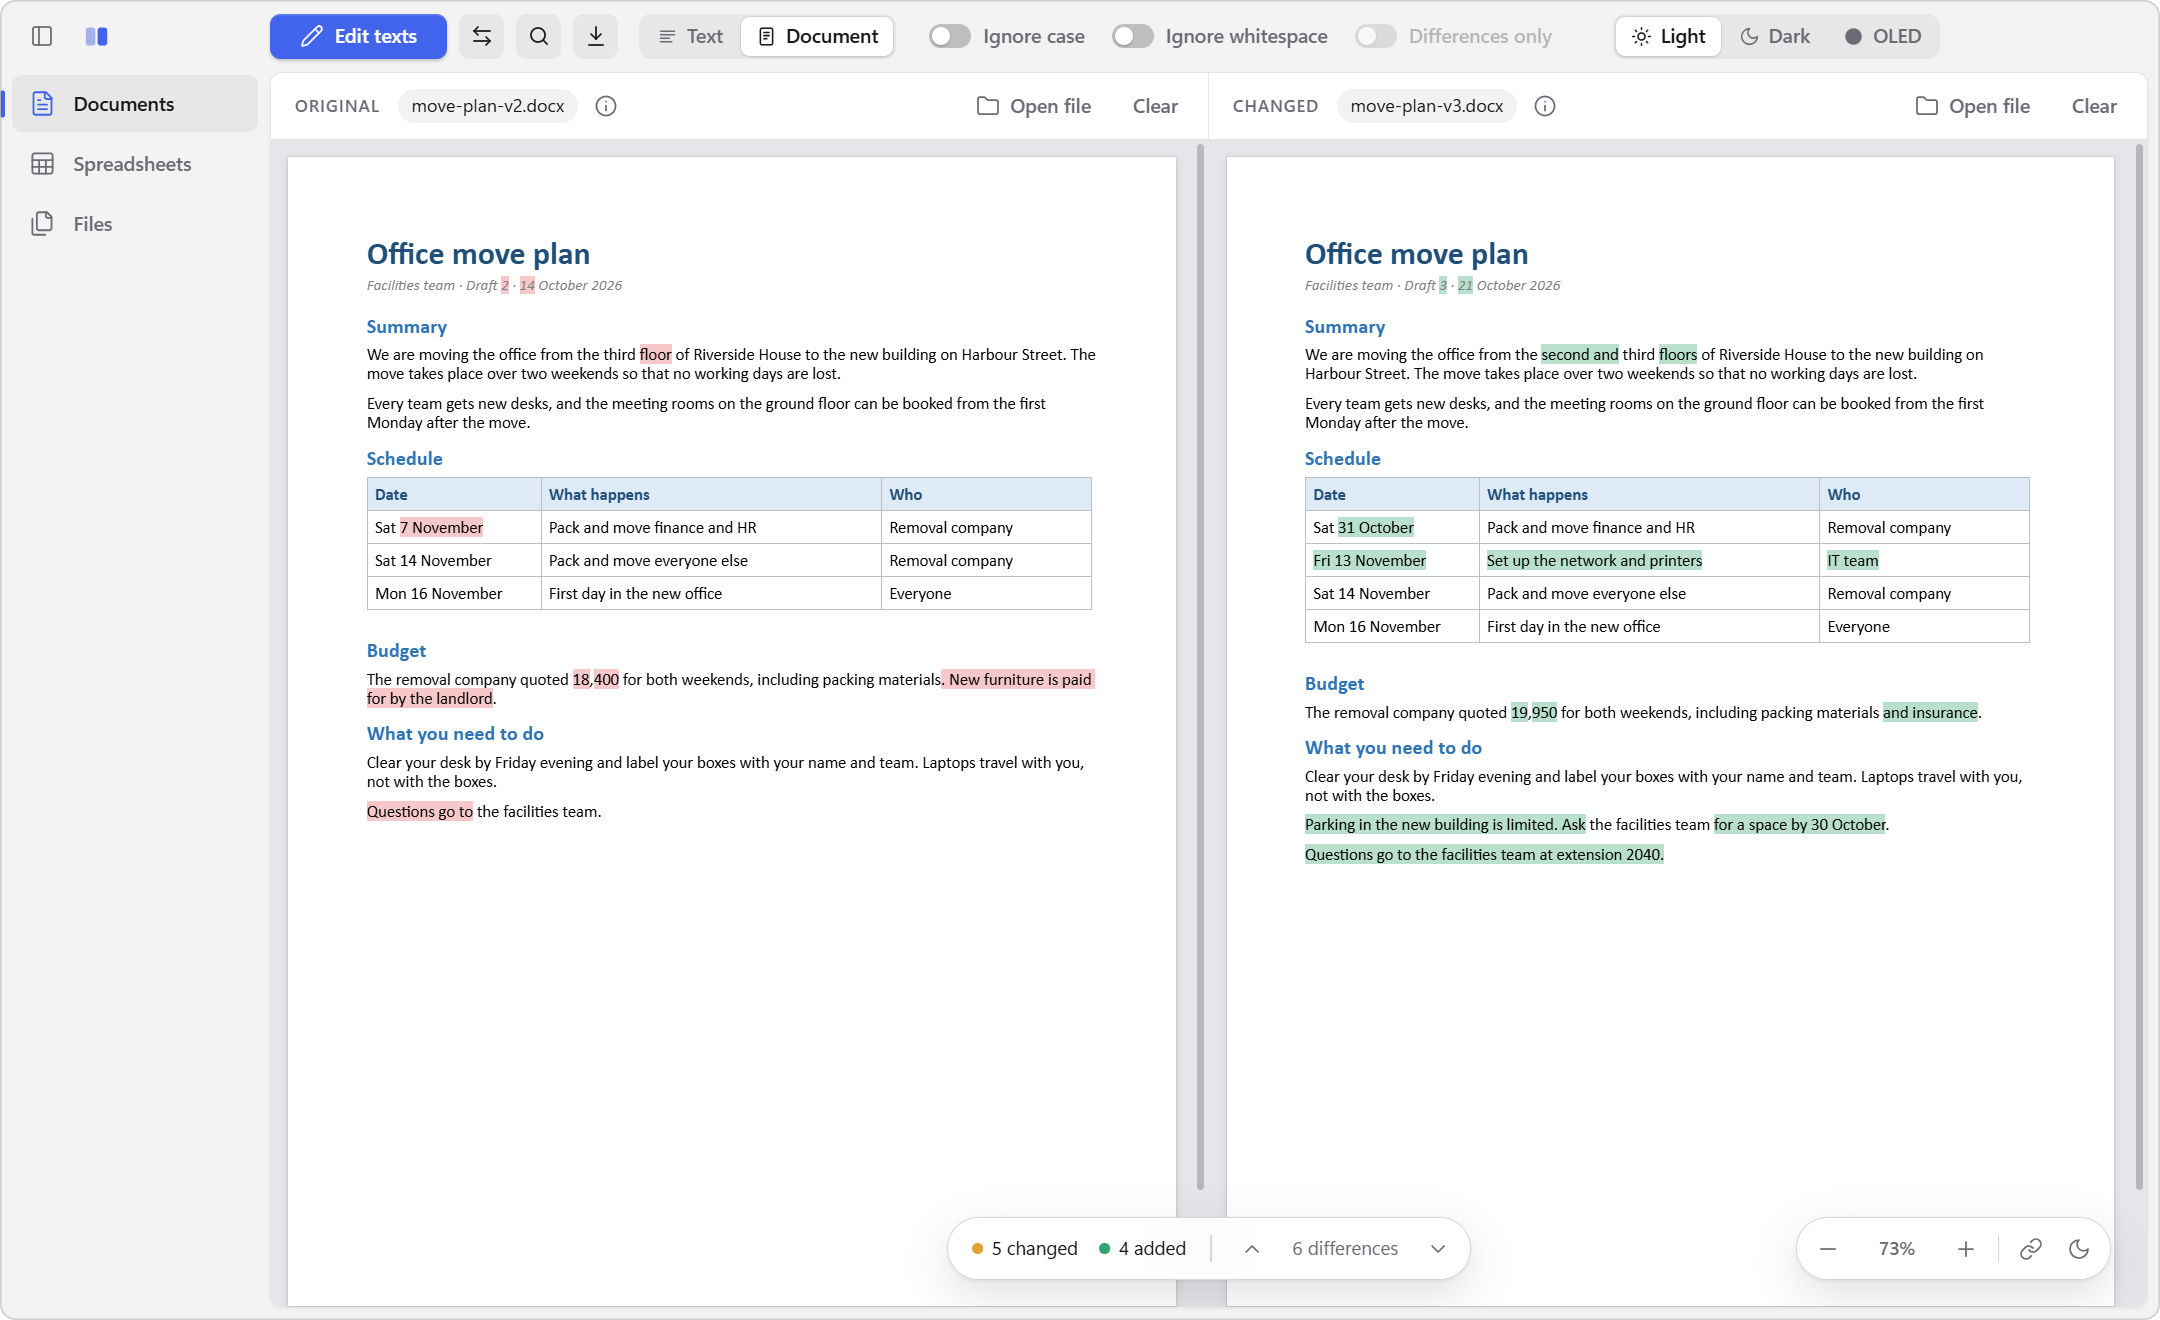
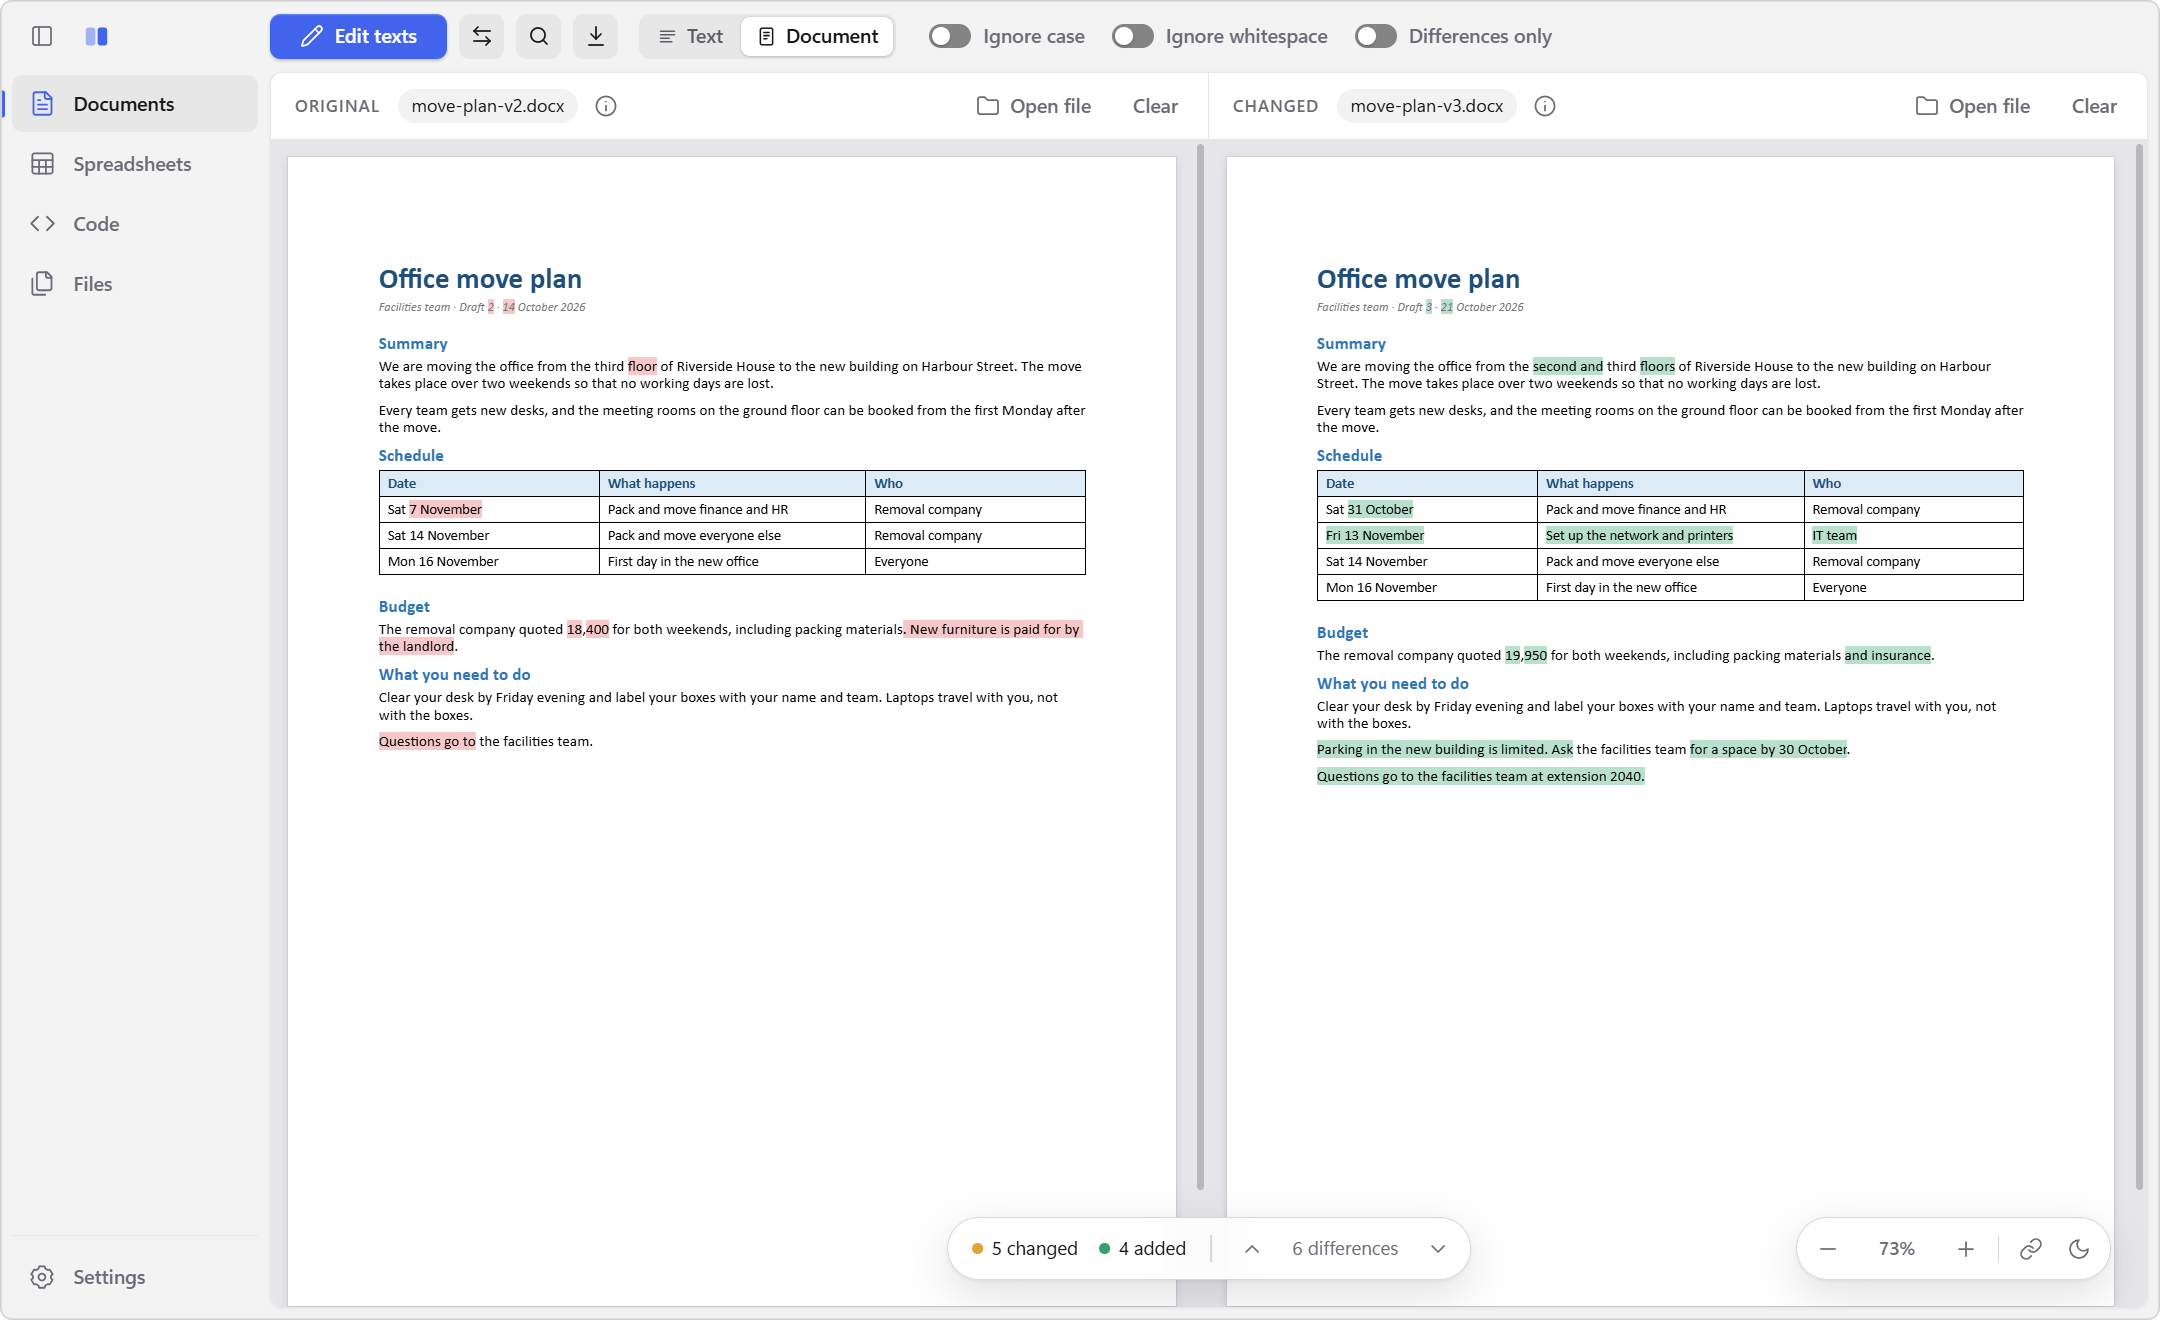
Release 1.5.0: Settings, a System theme and clearer file errors
- Version 1.5.0, with release notes in docs/releases/v1.5.0.md
- Retake every screenshot in the README and the user guide: the theme
  buttons have left the top bar for Settings, which now shows at the
  bottom of the sidebar, and the older shots had no Code workspace
- README: themes can follow Windows, and Settings can check for updates
- Guide: list file-error.js, diff-worker.js, diff-client.js and
  theme.js in the project layout, note the manual update check under
  how updating works, and use v1.5.0 in the release steps

diff --git a/docs/guide.md b/docs/guide.md
@@ -289,7 +289,7 @@ The code is colored with [highlight.js](https://highlightjs.org/) (`src/highligh
 
 ## Updating itself
 
-`src/updater.js` asks GitHub for the latest release ([the releases API](https://docs.github.com/en/rest/releases/releases#get-the-latest-release)) a few seconds after starting and every six hours. Only plain versions count, so drafts and pre-releases are never offered. `src/update.js` holds the parts that don't need Electron, so they can be tested: comparing versions, picking the right file, and the swap script.
+`src/updater.js` asks GitHub for the latest release ([the releases API](https://docs.github.com/en/rest/releases/releases#get-the-latest-release)) a few seconds after starting, every six hours, and when you click **Check for updates** in Settings. Checks that overlap share one request, and a check that fails keeps any update already found. Only plain versions count, so drafts and pre-releases are never offered. `src/update.js` holds the parts that don't need Electron, so they can be tested: comparing versions, picking the right file, and the swap script.
 
 How the update is put in place depends on how Compare runs:
 
@@ -319,11 +319,14 @@ Settings are stored in two places in Electron's user data folder under `%APPDATA
 | `src/code-languages.js` | Tells the language of a source file from its name |
 | `src/sheet-look.js` | Reads the formatting of spreadsheets |
 | `src/table-text.js` | Turns spreadsheets into delimited text and back |
+| `src/file-error.js` | Plain words for the errors Windows gives when a file can't be read or saved |
 | `src/hash-file.js` | Works out checksums |
 | `src/updater.js` | Checks for updates, downloads and applies them |
 | `src/update.js` | Versions, release files and the swap script for updates |
 | `src/renderer/app.js` | The page: workspaces, top bar, keyboard, find, export |
 | `src/renderer/diff-engine.js` | Compares texts line by line and word by word |
+| `src/renderer/diff-worker.js` | Runs comparisons in the background, away from the interface |
+| `src/renderer/diff-client.js` | Hands each workspace's comparisons to its own worker |
 | `src/renderer/table-diff.js` | Compares spreadsheets sheet by sheet |
 | `src/renderer/code-diff.js` | Compares code as git does, in hunks; writes code patches |
 | `src/renderer/code-html.js` | Turns colored code into lines, with the changed words marked |
@@ -334,6 +337,7 @@ Settings are stored in two places in Electron's user data folder under `%APPDATA
 | `src/renderer/doc-view.js` | The Document view |
 | `src/renderer/sheet-view.js` | The Sheet view |
 | `src/renderer/table-view.js` | The Table view |
+| `src/renderer/theme.js` | Themes, including System, and the sidebar's state before the first paint |
 | `src/renderer/report.js` | HTML reports, text patch files and CSV lists of changes |
 | `build/installer.nsh` | Adds *Send to → Compare* when installing |
 | `test/` | Tests, run with Node's built-in test runner |
@@ -349,11 +353,11 @@ npm test                 # run the tests
 npm run dist:installer   # build the installer and portable exe into dist/
 ```
 
-To publish a release, set `version` in `package.json` and `package-lock.json`, write the release notes in `docs/releases/v1.4.0.md` (named after the tag), commit, then push a matching tag:
+To publish a release, set `version` in `package.json` and `package-lock.json`, write the release notes in `docs/releases/v1.5.0.md` (named after the tag), commit, then push a matching tag:
 
 ```
-git tag v1.4.0
-git push origin v1.4.0
+git tag v1.5.0
+git push origin v1.5.0
 ```
 
 GitHub Actions runs the tests, builds the installer and the portable exe, and publishes them as a release with those notes. Without a notes file, the release lists the merged pull requests instead. The tests also run on every push to `main` and on every pull request.

diff --git a/docs/releases/v1.5.0.md b/docs/releases/v1.5.0.md
@@ -1,0 +1,36 @@
+## What's new
+
+### Settings
+
+- A new **Settings** button at the bottom left of the sidebar holds the theme, **Dark pages**, your version of Compare and a **Check for updates** button.
+- Settings tells you whether you're up to date, a new version is available, or the check couldn't finish. You can download and apply an update from there too.
+- Settings is still in reach with the sidebar collapsed and at high zoom. Esc closes it.
+
+### Themes
+
+- A new **System** theme, now the default, follows your Windows setting and switches between light and dark as soon as Windows does, title bar buttons included.
+- **Light**, **Dark** and **OLED** have moved from the top bar into Settings, with previews in each theme's real colors.
+- **Dark pages** is in Settings too, and stays in sync with the moon button in the Document and Sheet views.
+- All three themes now use Mica behind the sidebar and top bar, so text and switches stay readable whatever window is behind Compare.
+
+### Easier to read and to use from the keyboard
+
+- Text, line numbers, switches and accent buttons now meet WCAG AA contrast in Light, Dark and OLED.
+- The view switch (such as Text and Document), the sheet tabs and the themes in Settings each take a single Tab stop. Move between them with the arrow keys, Home and End.
+- In a narrow window, the option switches fold into an **Options** button, with a dot on it while any of them is on.
+
+## Fixes
+
+- When a file can't be opened, the side it was meant for says why in plain words, such as that the file is open in another program, instead of a system error with the full path. **Choose another file** lets you try again.
+- If a side already had text, a file that fails to open over it no longer hides that text. A bar above it says what went wrong, and the text stays as it was.
+- Error messages stay until you close them with **✕** or Esc, and a toast no longer covers a side's buttons by repeating the same error. Other messages don't go away while the pointer is on them.
+- Saving an export and working out checksums also give plain messages when a file is locked or missing.
+
+## Download
+
+- **Compare-Setup-1.5.0.exe** installs the app and adds *Send to → Compare* to Explorer.
+- **Compare-Portable-1.5.0.exe** runs without installing.
+
+If you already have 1.3.0 or later, click **Update to 1.5.0** in the app, then **Restart to update** once the download finishes.
+
+**Full changelog**: https://github.com/mikep49/compare/compare/v1.4.0...v1.5.0

diff --git a/README.md b/README.md
@@ -58,7 +58,7 @@ Find out if **any two files** are identical, or check a download against the MD5
 - **Jump between changes** with F8, and **find** text on both sides
 - **Export** an HTML report, a patch file, or a CSV list of the changed cells
 - **Ignore** case or whitespace, or show only the differences (on pages and sheets, everything else is grayed out)
-- **Light, dark and OLED-black** themes, and dark pages for documents and sheets
+- **Light, dark and OLED-black** themes, or follow Windows, and dark pages for documents and sheets, all in **Settings**
 - **Open from Explorer**: select two files and choose *Send to → Compare*
 - **Private**: your files never leave your computer
 
@@ -71,7 +71,7 @@ Get the latest version from the [Releases page](https://github.com/mikep49/compa
 
 The app isn't code-signed, so Windows SmartScreen may warn you the first time you run it. Click **More info → Run anyway**.
 
-From then on, Compare updates itself: when a new version is out, an **Update** button shows at the bottom left. This works for both the installer and the portable exe.
+From then on, Compare updates itself: when a new version is out, an **Update** button shows at the bottom left, and **Settings** can check for one at any time. This works for both the installer and the portable exe.
 
 New to Compare? The [user guide](docs/guide.md) covers everything it can do.
 
